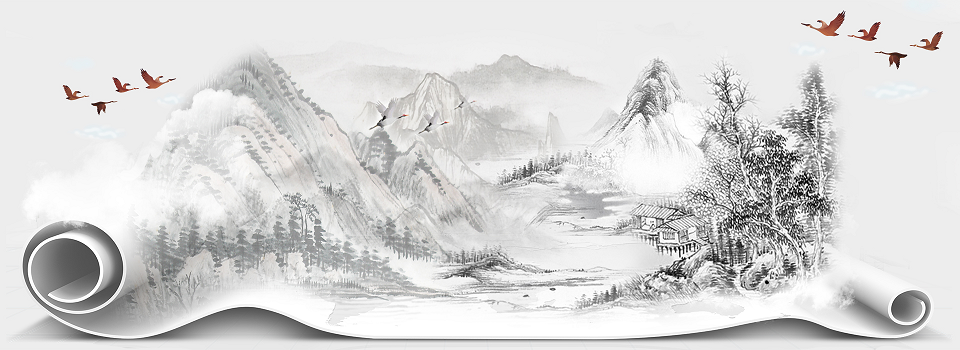
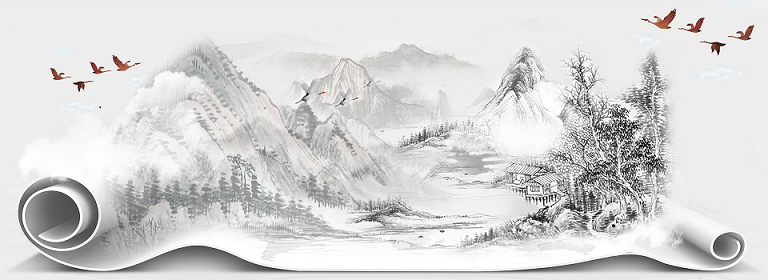
Site updated: 2021-11-19 12:46:18

diff --git a/css/main.css b/css/main.css
@@ -1175,7 +1175,7 @@ pre .javascript .function {
 }
 .links-of-author a::before,
 .links-of-author span.exturl::before {
-  background: #b1c8ff;
+  background: #ffff38;
   border-radius: 50%;
   content: ' ';
   display: inline-block;
@@ -2579,7 +2579,7 @@ ul.breadcrumb li + li:last-child {
   }
 }
 body {
-  background: url("/images/background.png");
+  background: url("/images/background.gif");
   background-repeat: no-repeat;
   background-attachment: fixed;
   background-position: 100% 100%;
